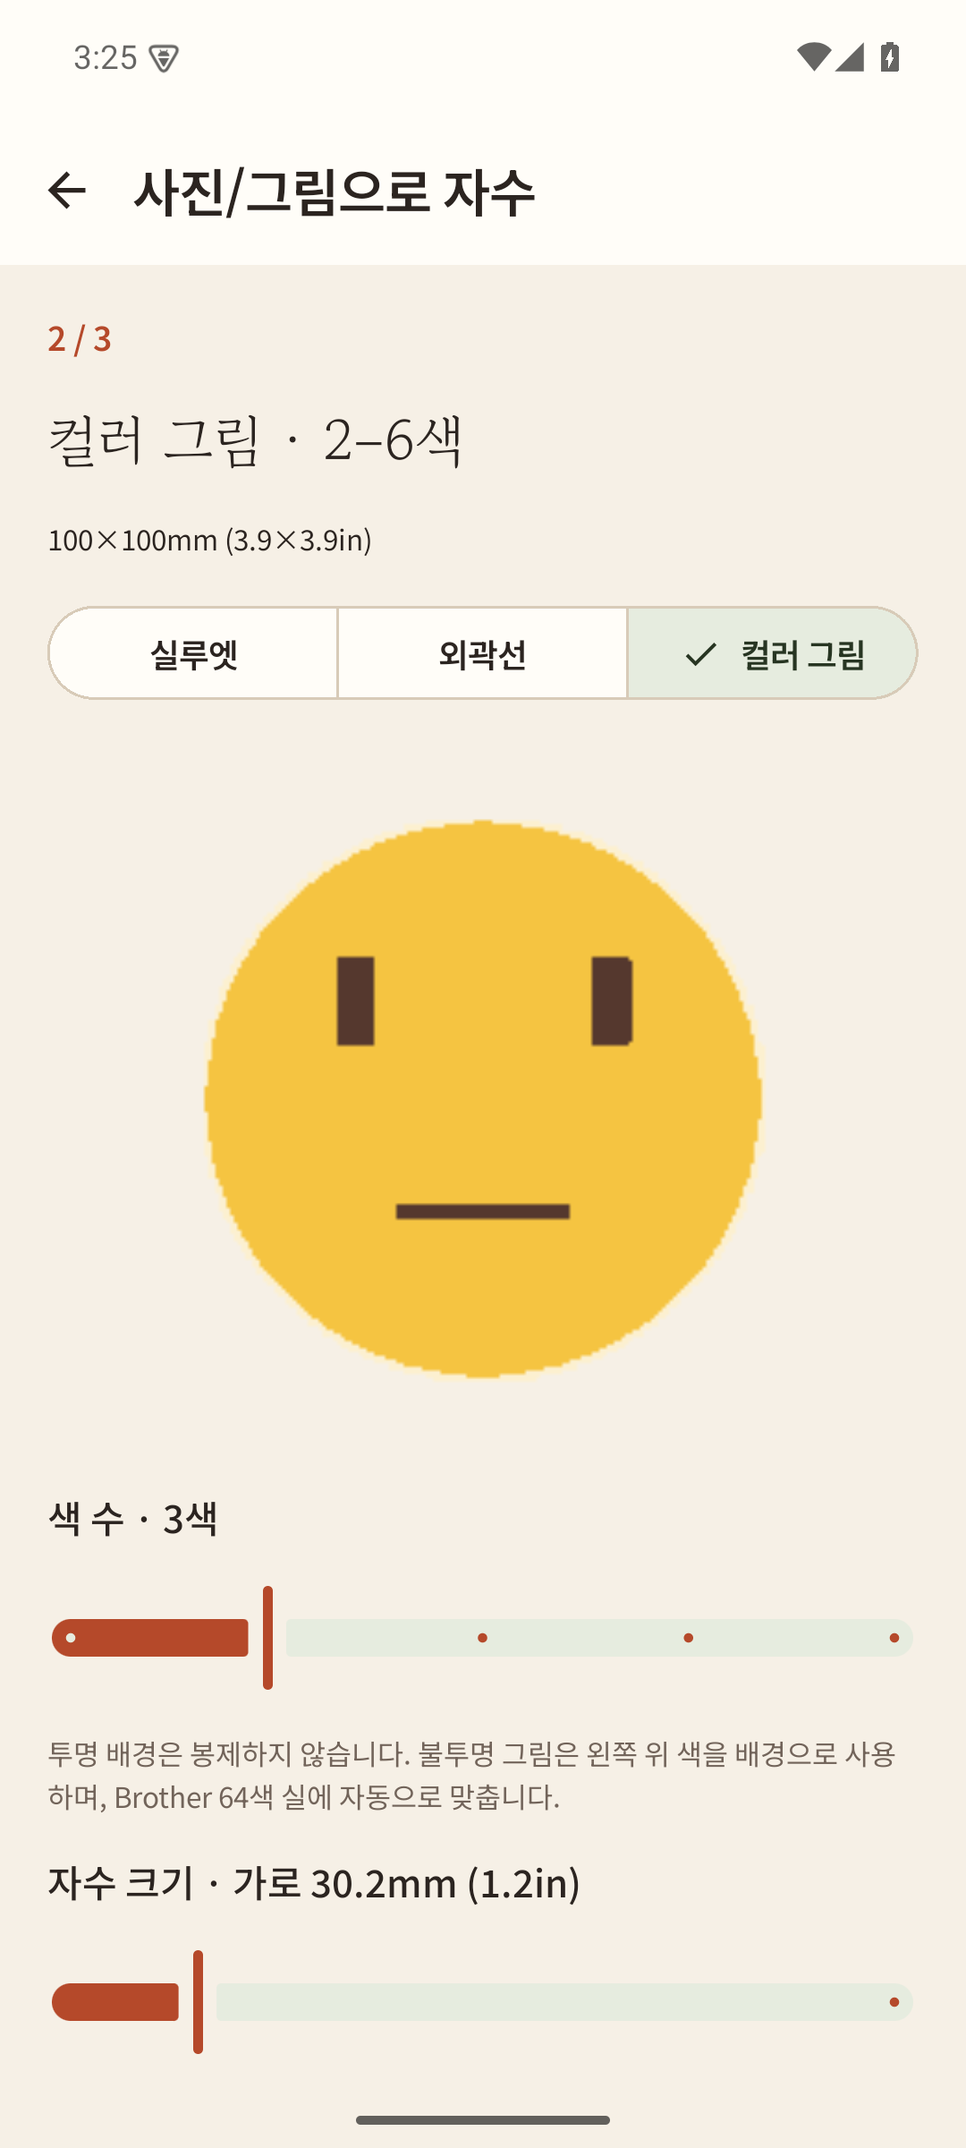
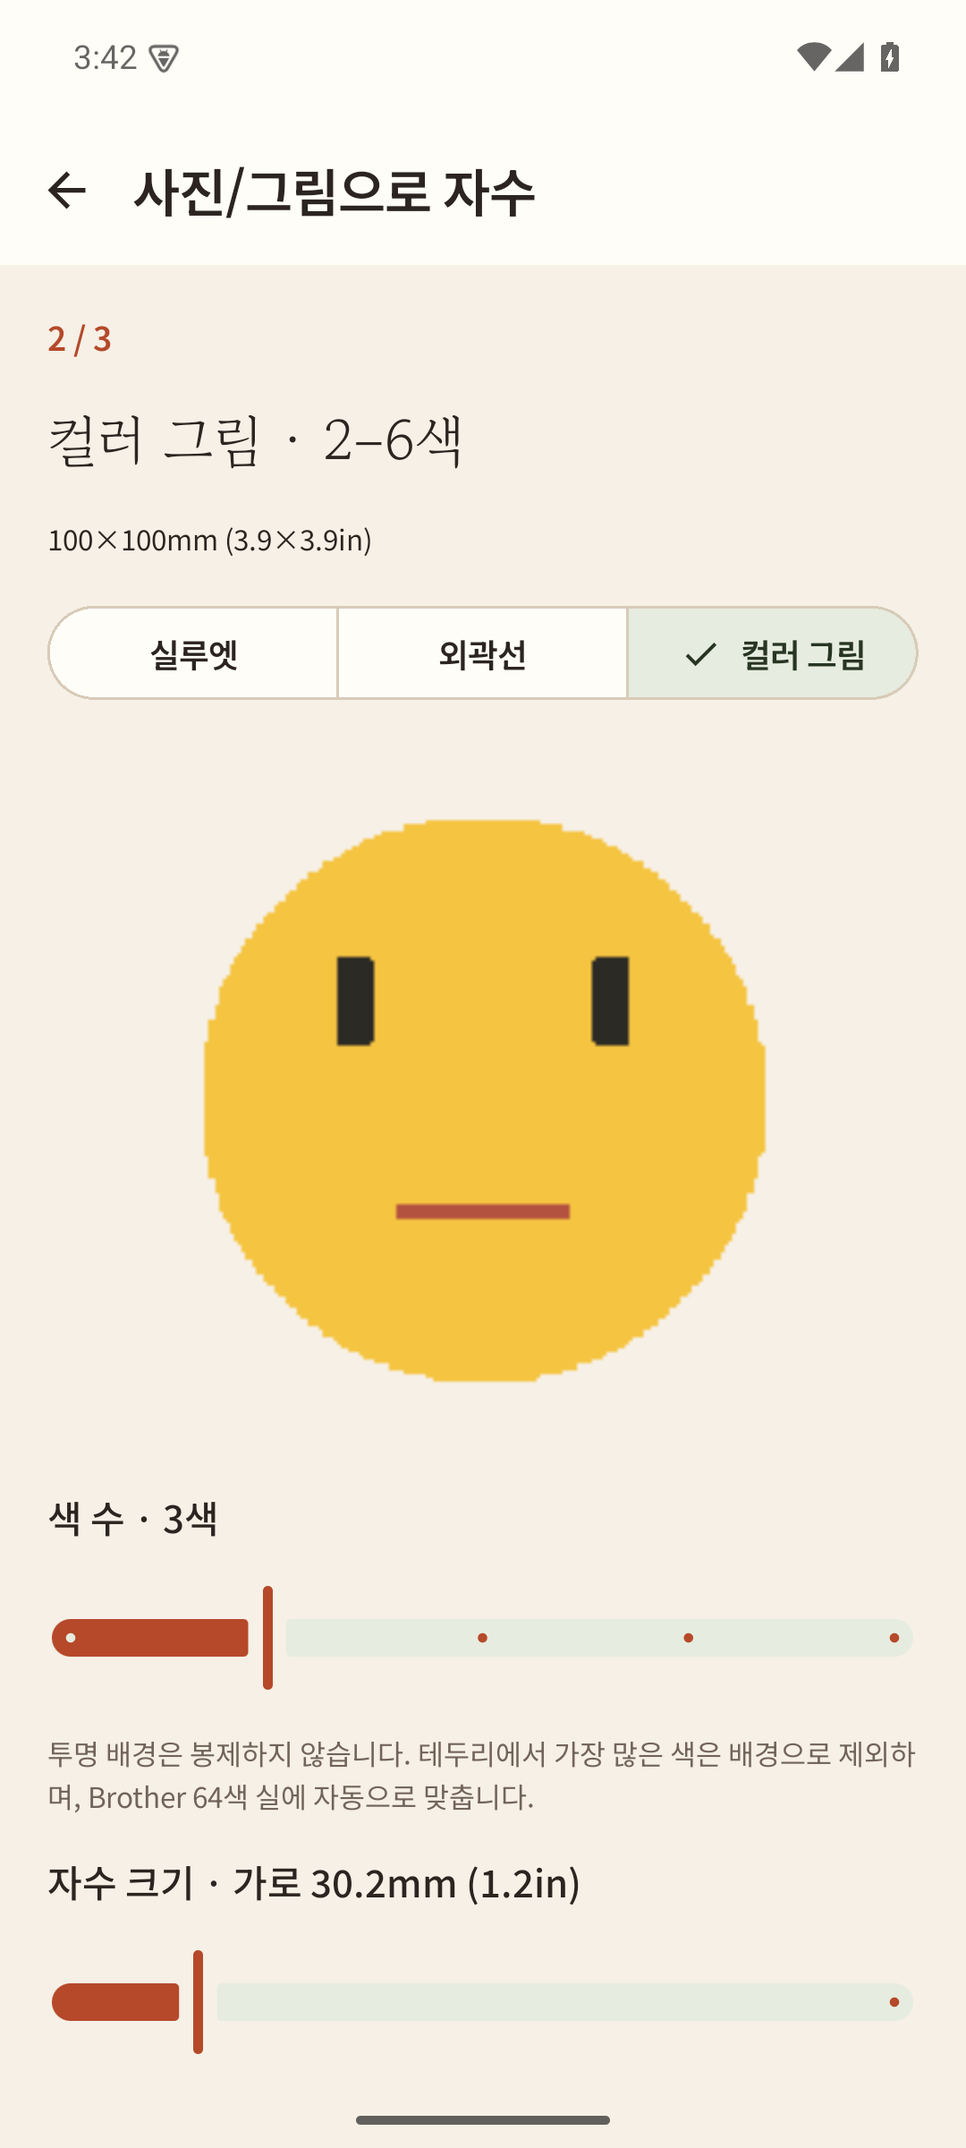
Remove border backgrounds and merge small color fragments before stitching
Preserve straight RGB at partial-alpha edges to avoid white-composited Beige. Border majority excludes opaque backgrounds before N-color quantization; 10-case synthetic sweep selects 3mm2. Android now uses Amber Red instead of Beige. check + assembleDebug pass; external gate 3/3.

diff --git a/engine/src/main/kotlin/io/github/linker2k/myembro/engine/inkstitch/svg/image/ColorDrawingPipeline.kt b/engine/src/main/kotlin/io/github/linker2k/myembro/engine/inkstitch/svg/image/ColorDrawingPipeline.kt
@@ -25,6 +25,9 @@ import java.util.Locale
 
 /** Two-phase on-device color drawing conversion: tracing never generates stitches. */
 object ColorDrawingPipeline {
+    /** Smallest tested threshold preserving original colors and removing AA/specks in the
+     * 2 original 30mm drawings × 5 area candidates (ColorCleanupSweep). Not a universal guarantee. */
+    const val MINIMUM_REGION_AREA_MM2 = 3.0
     data class Layer(val paletteIndex:Int,val thread: io.github.linker2k.myembro.engine.model.EmbThread, val outline: RedworkOutline)
     class Preview internal constructor(val width:Int,val height:Int,private val labels:IntArray,
         val palette:List<Int>,val layers:List<Layer>,val canvasWidthMm:Double,val inkOutline:RedworkOutline) {
@@ -35,30 +38,33 @@ object ColorDrawingPipeline {
         val widths:StitchTypeRule.Widths,val method:StitchTypeRule.Type,val groups:Int)
     data class Result(val pattern:io.github.linker2k.myembro.engine.model.EmbPattern,val regions:List<Region>)
 
-    /** Fully transparent pixels consume no thread. Partial alpha is composited over white.
-     * For an opaque source the top-left quantized color is the caller-selected background.
+    /** Transparent pixels consume no thread. Straight RGB preserves the pigment of partial-alpha
+     * PNG edges instead of introducing a white-composited extra thread. Border-label mode removes
+     * opaque background before the requested N-color quantization.
      */
     fun trace(width:Int,height:Int,argb:IntArray,widthMm:Double,colorCount:Int,
-        minAreaMm2:Double=0.0,maxContours:Int=128,checkpoint:(String)->Unit={}):Preview {
+        minAreaMm2:Double=MINIMUM_REGION_AREA_MM2,maxContours:Int=128,checkpoint:(String)->Unit={}):Preview {
         require(width in 1..512 && height in 1..512 && width*height==argb.size)
         require(widthMm.isFinite() && widthMm>0 && colorCount in 2..6)
         checkpoint("quantization")
         val opaque=argb.indices.filter { argb[it] ushr 24 != 0 }
         require(opaque.isNotEmpty()) { "No visible pixels" }
-        fun rgb(p:Int):Int {
-            val a=p ushr 24
-            fun channel(shift:Int)=(((p ushr shift) and 255)*a+255*(255-a)+127)/255
-            return (channel(16) shl 16) or (channel(8) shl 8) or channel(0)
-        }
-        val quantized=ImageQuantizer.quantize(opaque.map { rgb(argb[it]) }.toIntArray(),colorCount)
+        val preliminary=ImageQuantizer.quantize(opaque.map { argb[it] and 0xffffff }.toIntArray(),colorCount+1)
+        val first=IntArray(argb.size) { -1 };val firstIndices=preliminary.copyIndices()
+        opaque.forEachIndexed { i,p -> first[p]=firstIndices[i] }
+        val background=if(opaque.size<argb.size) -1 else ColorRegionCleanup.borderMode(width,height,first)
+        val foreground=opaque.filter { background<0 || first[it]!=background }
+        require(foreground.isNotEmpty()) { "No foreground after border background removal" }
+        val quantized=ImageQuantizer.quantize(foreground.map { argb[it] and 0xffffff }.toIntArray(),colorCount)
         val original=IntArray(argb.size) { -1 };val q=quantized.copyIndices()
-        opaque.forEachIndexed { i,p -> original[p]=q[i] }
-        val background=if(opaque.size==argb.size) original[0] else -1
+        foreground.forEachIndexed { i,p -> original[p]=q[i] }
+        val cleaned=ColorRegionCleanup.mergeSmall(width,height,original,
+            (widthMm/width)*(widthMm/width),minAreaMm2)
         // One explicit transparent border lets Potrace trace ink touching any crop edge.
         val w=width+2;val h=height+2
         val labels=IntArray(w*h) { p ->
             val x=p%w-1;val y=p/w-1
-            if(x in 0 until width && y in 0 until height) original[y*width+x].takeIf { it!=background } ?: -1 else -1
+            if(x in 0 until width && y in 0 until height) cleaned[y*width+x] else -1
         }
         val paddedWidth=widthMm*w/width
         val layers=quantized.palette.mapIndexedNotNull { color,rgb ->

diff --git a/engine/src/test/kotlin/io/github/linker2k/myembro/engine/inkstitch/svg/image/ColorCleanupSweep.kt b/engine/src/test/kotlin/io/github/linker2k/myembro/engine/inkstitch/svg/image/ColorCleanupSweep.kt
@@ -1,0 +1,45 @@
+// SPDX-License-Identifier: GPL-3.0-or-later
+package io.github.linker2k.myembro.engine.inkstitch.svg.image
+
+import java.awt.image.BufferedImage
+import java.awt.RenderingHints
+import javax.imageio.ImageIO
+import java.io.File
+import io.github.linker2k.myembro.engine.io.PesWriter
+import io.github.linker2k.myembro.engine.sewout.*
+import kotlin.test.*
+
+/** Ten fixed cases; own original drawings only, no photos. */
+class ColorCleanupSweep {
+    @Test fun smallestTestedAreaRemovingSpecksRetainsThreeDrawingThreads() {
+        val rows=mutableListOf<String>();val counts=mutableMapOf<Double,MutableList<Int>>()
+        val out=System.getenv("COLOR_CLEANUP_OUT")?.let { File(it).apply { mkdirs() } }
+        for(name in listOf("face","robot")) {
+            val source=ImageIO.read(javaClass.getResourceAsStream("/image-to-design/$name.png"))
+            val image=BufferedImage(192,192,BufferedImage.TYPE_INT_ARGB)
+            val graphics=image.createGraphics()
+            graphics.setRenderingHint(RenderingHints.KEY_INTERPOLATION,RenderingHints.VALUE_INTERPOLATION_BILINEAR)
+            graphics.drawImage(source,0,0,192,192,null);graphics.dispose()
+            // Four-by-four bright speck strictly inside the main colored body: 0.390625mm² at 30mm.
+            for(y in 105..108) for(x in 92..95) image.setRGB(x,y,0xfffefefe.toInt())
+            for(area in listOf(0.25,0.5,1.0,2.0,3.0)) {
+                val start=System.nanoTime()
+                val preview=ColorDrawingPipeline.trace(192,192,image.getRGB(0,0,192,192,null,0,192),30.0,4,minAreaMm2=area)
+                val result=ColorDrawingPipeline.generate(preview)
+                val pes=PesWriter.write(result.pattern)
+                val report=SewoutCheck.checkPes(pes,options=SewoutOptions(origin=DesignOrigin.APP_GENERATED))
+                val threads=result.pattern.threads.distinctBy { it.color }
+                val count=threads.size
+                val expected=if(name=="face") setOf("23","12","49") else setOf("23","32","49")
+                counts.getOrPut(area) { mutableListOf() }+=if(threads.map { it.catalogNumber }.toSet()==expected) count else -1
+                rows+="$name\t$area\t3\t$count\t${result.pattern.stitchCount}\t${report.verdict}\t${(System.nanoTime()-start)/1e6}\t${threads.map { it.catalogNumber to it.description }}"
+                out?.resolve("$name-$area.pes")?.writeBytes(pes)
+                assertFalse(report.hasBlockingIssues,rows.last())
+            }
+        }
+        val header="input\tmin_area_mm2\texpected_threads\tactual_threads\tstitches\tgate\ttotal_ms\tthreads"
+        println(header);rows.forEach(::println)
+        out?.resolve("sweep.tsv")?.writeText((listOf(header)+rows).joinToString("\n"))
+        assertEquals(ColorDrawingPipeline.MINIMUM_REGION_AREA_MM2,counts.entries.first { (_,values) -> values.all { it==3 } }.key,rows.joinToString("\n"))
+    }
+}

diff --git a/engine/src/main/kotlin/io/github/linker2k/myembro/engine/inkstitch/svg/image/ColorRegionCleanup.kt b/engine/src/main/kotlin/io/github/linker2k/myembro/engine/inkstitch/svg/image/ColorRegionCleanup.kt
@@ -1,0 +1,48 @@
+// SPDX-License-Identifier: GPL-3.0-or-later
+package io.github.linker2k.myembro.engine.inkstitch.svg.image
+
+import kotlin.math.ceil
+
+/** Standard border-label mode and four-connected small-region merging. No stitch heuristics. */
+internal object ColorRegionCleanup {
+    fun borderMode(width:Int,height:Int,labels:IntArray):Int {
+        val counts=linkedMapOf<Int,Int>()
+        for(y in 0 until height) for(x in 0 until width)
+            if(x==0 || y==0 || x==width-1 || y==height-1) {
+                val label=labels[y*width+x];counts[label]=(counts[label] ?: 0)+1
+            }
+        return counts.maxBy { it.value }.key
+    }
+
+    /** Components smaller than [minimumAreaMm2] merge into the largest adjacent retained region.
+     * Background is an eligible destination, but never a source: transparent holes stay transparent.
+     * No nonadjacent color is invented. Ties follow stable raster order.
+     */
+    fun mergeSmall(width:Int,height:Int,labels:IntArray,pixelAreaMm2:Double,minimumAreaMm2:Double):IntArray {
+        require(pixelAreaMm2.isFinite() && pixelAreaMm2>0 && minimumAreaMm2.isFinite() && minimumAreaMm2>=0)
+        val minimum=ceil(minimumAreaMm2/pixelAreaMm2).toInt()
+        if(minimum<=1) return labels.copyOf()
+        val owner=IntArray(labels.size) { -1 };val queue=IntArray(labels.size)
+        val colors=mutableListOf<Int>();val sizes=mutableListOf<Int>()
+        fun neighbors(p:Int,visit:(Int)->Unit) {
+            if(p%width>0) visit(p-1);if(p%width+1<width) visit(p+1)
+            if(p>=width) visit(p-width);if(p+width<labels.size) visit(p+width)
+        }
+        for(p in labels.indices) if(owner[p]<0) {
+            val id=colors.size;colors+=labels[p];var head=0;var tail=1;queue[0]=p;owner[p]=id
+            while(head<tail) {
+                val current=queue[head++]
+                neighbors(current) { q -> if(owner[q]<0 && labels[q]==labels[p]) { owner[q]=id;queue[tail++]=q } }
+            }
+            sizes+=tail
+        }
+        val adjacent=Array(colors.size) { sortedSetOf<Int>() }
+        for(p in labels.indices) neighbors(p) { q -> if(owner[p]!=owner[q]) adjacent[owner[p]]+=owner[q] }
+        val destination=IntArray(colors.size) { it }
+        for(id in colors.indices) if(colors[id]>=0 && sizes[id]<minimum) {
+            val target=adjacent[id].filter { sizes[it]>=minimum }.maxByOrNull { sizes[it] }
+            if(target!=null) destination[id]=target
+        }
+        return IntArray(labels.size) { colors[destination[owner[it]]] }
+    }
+}

diff --git a/engine/src/test/kotlin/io/github/linker2k/myembro/engine/inkstitch/svg/image/ColorDrawingPipelineTest.kt b/engine/src/test/kotlin/io/github/linker2k/myembro/engine/inkstitch/svg/image/ColorDrawingPipelineTest.kt
@@ -8,7 +8,7 @@ import javax.imageio.ImageIO
 import kotlin.test.*
 
 class ColorDrawingPipelineTest {
-    @Test fun opaqueBackgroundPartialAlphaAndCropEdgesHaveExplicitContracts() {
+    @Test fun borderBackgroundPartialAlphaAndCropEdgesHaveExplicitContracts() {
         val pixels=IntArray(32*32) { p -> if(p%32 in 4..27 && p/32 in 4..27) 0xffff0000.toInt() else 0xffffffff.toInt() }
         val opaque=ColorDrawingPipeline.trace(32,32,pixels,30.0,2)
         assertEquals(1,opaque.layers.size)
@@ -17,7 +17,7 @@ class ColorDrawingPipelineTest {
         val transparent=ColorDrawingPipeline.trace(32,32,edge,30.0,2)
         assertTrue(transparent.layers.isNotEmpty())
         assertEquals(0,transparent.previewPixels()[0])
-        assertTrue(transparent.palette.single() and 0xffffff == 0xff7f7f)
+        assertTrue(transparent.palette.single() and 0xffffff == 0xff0000)
         assertFailsWith<IllegalArgumentException> { ColorDrawingPipeline.trace(32,32,pixels,30.0,7) }
     }
     @Test fun originalEmojiMapsToBrotherThreadsAndCancelsBetweenStages() {
@@ -32,4 +32,15 @@ class ColorDrawingPipelineTest {
         val pes=PesWriter.write(ColorDrawingPipeline.generate(preview).pattern)
         assertFalse(SewoutCheck.checkPes(pes,options=SewoutOptions(origin=DesignOrigin.APP_GENERATED)).hasBlockingIssues)
     }
+    @Test fun borderWhiteBackgroundDoesNotConsumeDrawingColorBudgetEvenWithDirtyTopLeft() {
+        val source=ImageIO.read(javaClass.getResourceAsStream("/image-to-design/face.png"))
+        val image=java.awt.image.BufferedImage(128,128,java.awt.image.BufferedImage.TYPE_INT_RGB)
+        val g=image.createGraphics();g.color=java.awt.Color.WHITE;g.fillRect(0,0,128,128);g.drawImage(source,0,0,null);g.dispose()
+        image.setRGB(0,0,0xff252525.toInt())
+        val preview=ColorDrawingPipeline.trace(128,128,image.getRGB(0,0,128,128,null,0,128),30.0,3)
+        val result=ColorDrawingPipeline.generate(preview)
+        assertEquals(setOf("23","12","49"),result.pattern.threads.map { it.catalogNumber }.toSet())
+        assertTrue(preview.layers.none { it.thread.catalogNumber=="29" })
+    }
+
 }

diff --git a/app/src/androidTest/kotlin/io/github/linker2k/myembro/ui/photo/ColorDrawingSmokeInstrumentation.kt b/app/src/androidTest/kotlin/io/github/linker2k/myembro/ui/photo/ColorDrawingSmokeInstrumentation.kt
@@ -58,6 +58,7 @@ class ColorDrawingSmokeInstrumentation:Instrumentation() {
             check(vm.render!=null) { "generate ${vm.error}" }
             check(vm.passed) { vm.report?.findings.toString() }
             check(vm.requiredThreads.size in 2..3 && vm.requiredThreads.all { !it.catalogNumber.isNullOrBlank() && !it.description.isNullOrBlank() })
+            check(vm.requiredThreads.none { it.catalogNumber=="47" }) { "Antialias Beige must not become a thread" }
             screenshot("color-result-ko.png")
             out.resolve("color-face.pes").writeBytes(PesWriter.write(vm.render!!.pattern,EmbroiderySettings().writeSettings))
             val summary="COLOR_UI_SMOKE_PASS colors=${vm.colorCount} ink_width_mm=${vm.inkWidthMm} stitches=${vm.report!!.statistics.stitchCount} threads=${vm.requiredThreads.map { it.catalogNumber to it.description }}"

diff --git a/engine/src/test/kotlin/io/github/linker2k/myembro/engine/inkstitch/svg/image/ColorRegionCleanupTest.kt b/engine/src/test/kotlin/io/github/linker2k/myembro/engine/inkstitch/svg/image/ColorRegionCleanupTest.kt
@@ -1,0 +1,17 @@
+// SPDX-License-Identifier: GPL-3.0-or-later
+package io.github.linker2k.myembro.engine.inkstitch.svg.image
+
+import kotlin.test.*
+
+class ColorRegionCleanupTest {
+    @Test fun borderModeIsNotTheTopLeftPixel() {
+        val labels=IntArray(25) { 0 };labels[0]=1;labels[12]=2
+        assertEquals(0,ColorRegionCleanup.borderMode(5,5,labels))
+    }
+    @Test fun smallFragmentMergesOnlyIntoAdjacentRetainedRegionAndHolesStayTransparent() {
+        val labels=IntArray(25) { 0 };labels[12]=1;labels[6]=-1
+        val actual=ColorRegionCleanup.mergeSmall(5,5,labels,0.1,0.5)
+        assertEquals(0,actual[12]);assertEquals(-1,actual[6])
+        assertEquals(1,ColorRegionCleanup.mergeSmall(5,5,labels,0.1,0.1)[12])
+    }
+}

diff --git a/app/src/main/kotlin/io/github/linker2k/myembro/ui/photo/PhotoViewModel.kt b/app/src/main/kotlin/io/github/linker2k/myembro/ui/photo/PhotoViewModel.kt
@@ -163,7 +163,7 @@ class PhotoViewModel(app: Application) : AndroidViewModel(app) {
                     val pixels = IntArray(w * h); scaled.getPixels(pixels, 0, w, 0, 0, w, h); scaled.recycle()
                     if(selectedMode==PhotoMode.COLOR) {
                         val preview=ColorDrawingPipeline.trace(w,h,pixels,pictureWidth,selectedColors,
-                            minAreaMm2=photoMinimumArea(detail)) { phase ->
+                            minAreaMm2=ColorDrawingPipeline.MINIMUM_REGION_AREA_MM2) { phase ->
                             if(Thread.currentThread().isInterrupted) throw InterruptedException()
                             progressStage=if(phase=="quantization") 1 else 2
                         }

diff --git a/docs/qa/color-drawing/background-cleanup.md b/docs/qa/color-drawing/background-cleanup.md
@@ -1,0 +1,64 @@
+# 배경·안티앨리어싱 색 정리 (v0.2.5 후보)
+
+컬러 전용 변경. 개인 입력 없이 기존 원본 합성 얼굴·로봇 PNG와 테스트가 그린 얼굴만 사용했다.
+
+## 원인과 처리
+
+- PNG의 부분 알파 픽셀을 흰색과 합성한 뒤 Wu에 넣어 가장자리 색이 새 실 색을 만들었다. 이제 완전 투명 픽셀은 제외하고, 부분 알파는 ARGB의 straight RGB 원색으로 양자화한다. 새 알파 임계값은 넣지 않았다.
+- 불투명 입력은 Wu 사전 분리(N+1색)의 **테두리 픽셀 최빈 색**을 배경으로 제외한다. 왼쪽 위 한 픽셀로 결정하지 않는다. 배경 제외 후 다시 원본 Wu N색을 실행하여 배경이 사용자가 고른 2–6색 예산을 차지하지 않게 한다. 명시적 투명 배경이 있으면 그 알파 배경을 우선한다. 밝기 임계값을 새로 고안하지 않았다.
+- 표준 4연결 성분 면적을 세어 작은 색 조각을 인접한 유지 영역 중 가장 큰 영역의 색으로 합친다. 배경도 합칠 대상이 될 수 있다. 비인접 색을 추정하지 않고, 투명 영역 자체를 새로 채우지 않는다. 기존 Potrace 면적 필터도 같은 면적 기준을 사용한다.
+- 면적 기준은 아래 **30mm, 2개 원본 × 후보 5개 = 10건**의 스윕이 선택한 `3.0mm²`다. 더 작은 후보는 얼굴에 Khaki가 남았다. 색 개수만 맞추지 않고 원래 그림의 Brother 실 번호 집합까지 일치하는지 assert했다. 실루엣/외곽선의 기존 면적·디테일은 변경하지 않았다.
+
+## 측정 표
+
+입력은 bilinear 192px 재샘플링 후, 넓은 본체 내부에 4×4px 밝은 잡티(30mm에서 0.390625mm²)를 추가했다. 색 수 예산은 4이며 실제 원본 그림은 3색이다. 면적 후보는 기존 0.25/0.5/1.0에서 부족해 2.0/3.0까지 측정했다.
+
+| 합성 입력 | 최소 면적 mm² | 실제 그림 색 | 필요한 실 | 땀 | 엔진 게이트 |
+|---|---:|---:|---:|---:|---|
+| face | 0.25 | 3 | 4 | 1144 | PASS |
+| face | 0.5 | 3 | 4 | 1144 | PASS |
+| face | 1.0 | 3 | 4 | 1107 | PASS |
+| face | 2.0 | 3 | 4 | 1107 | PASS |
+| face | 3.0 | 3 | 3 | 1089 | PASS |
+| robot | 0.25 | 3 | 4 | 846 | PASS |
+| robot | 0.5 | 3 | 3 | 836 | PASS |
+| robot | 1.0 | 3 | 3 | 836 | PASS |
+| robot | 2.0 | 3 | 3 | 836 | PASS |
+| robot | 3.0 | 3 | 3 | 836 | PASS |
+
+선택한 3.0mm²에서 얼굴은 `23 Dark Gray / 49 Amber Red / 12 Orange`, 로봇은 `23 Dark Gray / 32 Sky Blue / 49 Amber Red`를 사용한다. **이 두 그림/크기에서 검증한 기준이며, 임의의 그림의 의도된 색 수를 알아낸다고 주장하지 않는다.** 3mm² 미만의 실제 디테일도 단순화 대상이므로 더 작거나 세밀한 그림의 보존을 보장하지 않는다.
+
+실제 Android 크롭·보간 경로(색 수 3, 표시 가로 약 30mm)도 확인했다:
+
+| 결과 | 필요한 실 | 땀 |
+|---|---|---:|
+| 수정 전 | 23 Dark Gray / 12 Orange / **47 Beige** | 1,543 |
+| 수정 후 | 23 Dark Gray / 12 Orange / **49 Amber Red** | 1,502 |
+
+[갱신된 결과 스크린샷](result-ko.png), [갱신된 미리보기](preview-ko.png). 기본 Android instrumentation이 직접 그린 PNG만 사용했고 MediaStore/개인 파일은 읽지 않았다.
+
+## 재현과 판정
+
+```sh
+export JAVA_HOME=/home/gosh2/.jdks/jdk-17.0.20.1+1
+COLOR_CLEANUP_OUT=/tmp/myembro-port-out/editor/color-cleanup ./gradlew check :app:assembleDebug :engine:imageToDesignProbe
+# 같은 코드의 실제 ART 경로는 ColorDrawingSmokeInstrumentation 실행.
+/tmp/myembro-quality-gate/quality-gate check \
+ /tmp/myembro-port-out/editor/color-cleanup/face-3.0.pes \
+ /tmp/myembro-port-out/editor/color-cleanup/robot-3.0.pes \
+ /tmp/myembro-port-out/editor/color-cleanup/android-face.pes \
+ --style mixed --json /tmp/myembro-port-out/editor/color-cleanup/gate.json
+```
+
+```text
+BUILD SUCCESSFUL in 51s
+engine tests=730 failures=0; app debug/release tests=231 each, failures=0
+COLOR_UI_SMOKE_PASS colors=3 ink_width_mm=30.2 stitches=1502
+threads=[(23, Dark Gray), (12, Orange), (49, Amber Red)]
+INSTRUMENTATION_CODE: 0
+PASS 3/3 cases passed
+```
+
+코드 판정: `ColorCleanupSweep`은 10건의 게이트, 3색 및 원래 실 번호 보존의 최소 후보를 검사한다. 별도 회귀는 모서리 한 픽셀이 다른 배경, 배경이 색 예산을 소비하지 않음, 작은 영역의 인접 병합, 투명 구멍 보존, 부분 알파 원색 보존을 검사한다. Android 스모크는 catalog `47`이 없다는 것도 assert한다.
+
+원시 표 `/tmp/myembro-port-out/editor/color-cleanup/sweep.tsv`, 로그 `/tmp/color-cleanup-final-check.log`, `/tmp/color-cleanup-android-smoke.log`, `/tmp/color-cleanup-gate.log`. 개인 도안/이모티콘 번들 없음. 통합 담당 검토용이며 실물 봉제 검증은 별도다.

diff --git a/docs/qa/color-drawing/README.md b/docs/qa/color-drawing/README.md
@@ -1,5 +1,7 @@
 # 컬러 그림 앱 연결 스모크
 
+최신 배경·안티앨리어싱 수정과 현재 스크린샷 결과는 [v0.2.5 후보 검증](background-cleanup.md)을 따른다. 아래 수치는 최초 연결 당시 기록이다.
+
 홈 → 새 프로젝트 → 사진/그림 → 2/3에서 실루엣·외곽선 옆 **컬러 그림**을 선택한다. 컬러 모드는 색 수(2–6) 슬라이더 하나와 기존 자수 크기 슬라이더를 제공한다. 결과에는 Brother 64색 최근접 실의 번호·이름을 중복 없이 표시한다. ko/en 문자열을 제공하며 기존 편집기/USB 흐름을 유지한다.
 
 - [컬러 모드·색 수·기존 크기 슬라이더](preview-ko.png)
